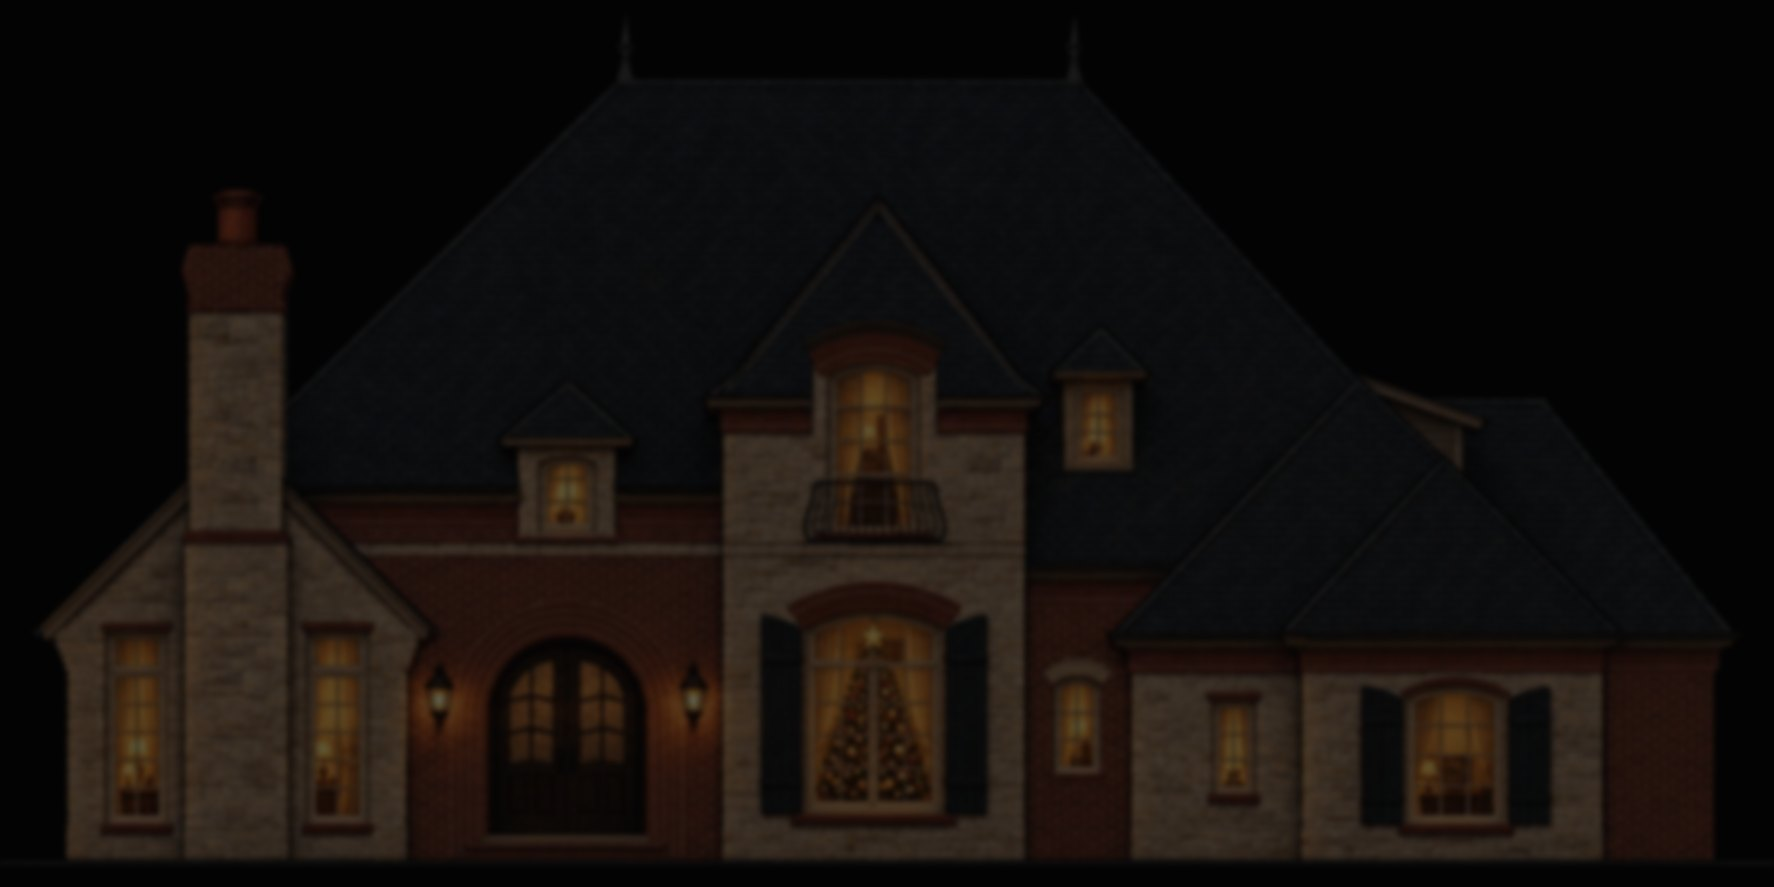
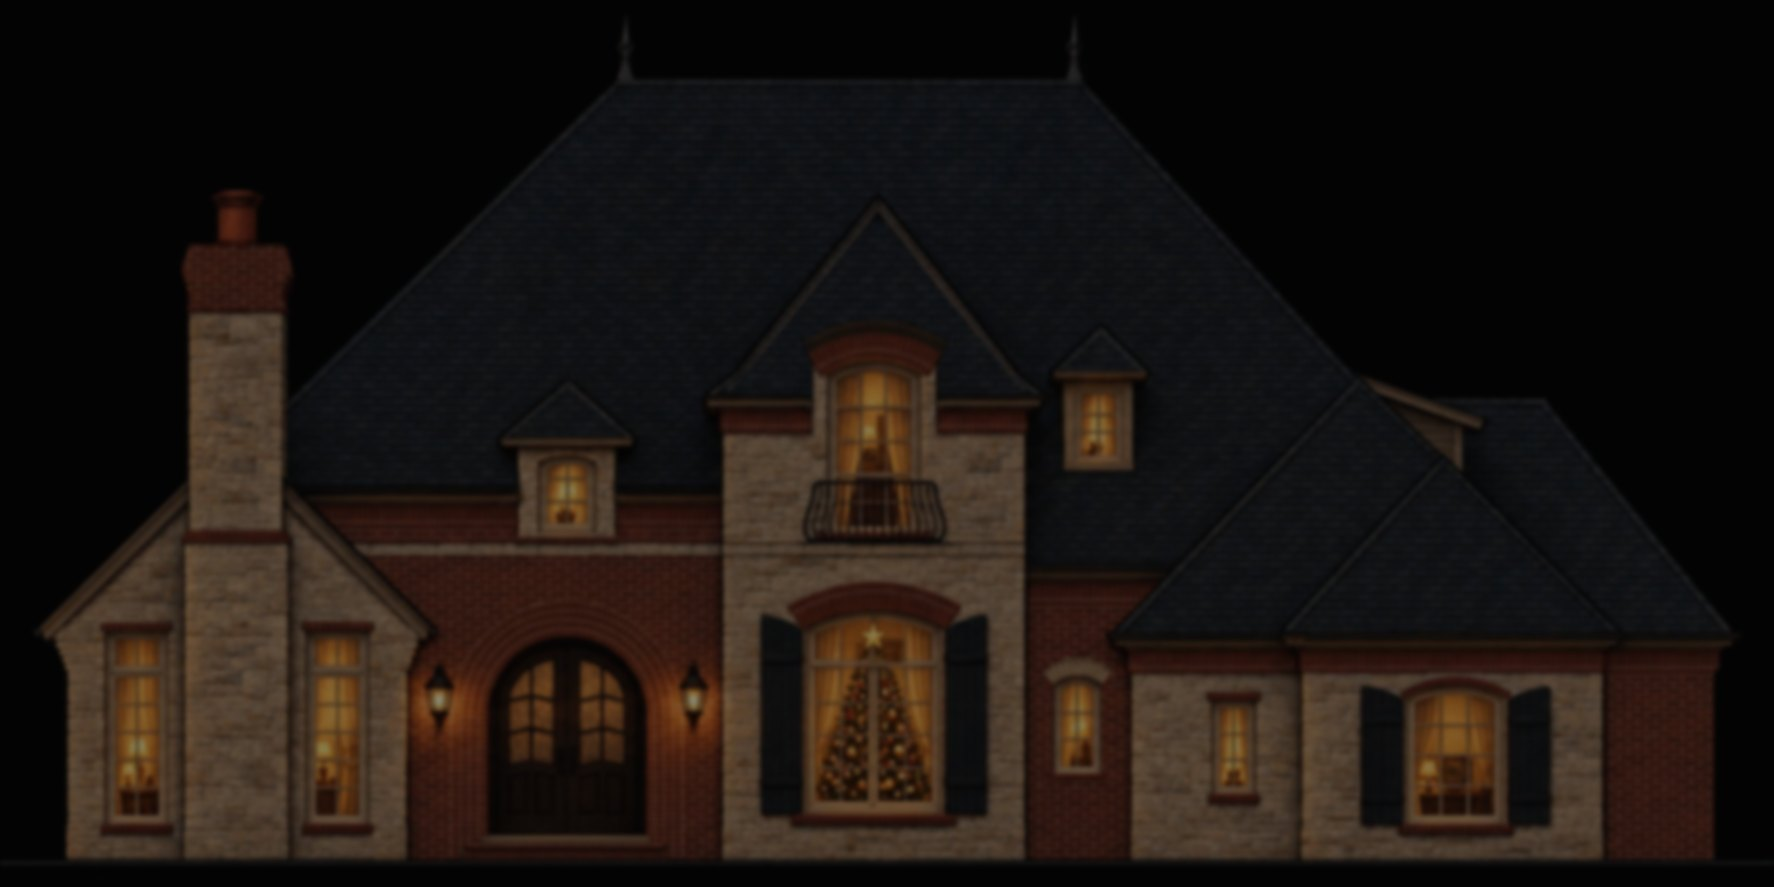
Brighter house, matching corner radius, line breaks in the footer text

diff --git a/index.html b/index.html
@@ -11,22 +11,22 @@
 <meta property="og:image" content="https://finetunedlights.com/display-photo.jpg">
 <link rel="preconnect" href="https://fonts.googleapis.com">
 <link rel="stylesheet" href="https://fonts.googleapis.com/css2?family=Playfair+Display:wght@600;700;900&family=Roboto:wght@400;500;700&display=swap">
-<link rel="stylesheet" href="style.css?v=39">
+<link rel="stylesheet" href="style.css?v=40">
 <link rel="icon" href="favicon.svg" type="image/svg+xml">
-<script src="show.js?v=39" defer></script>
-<script src="holiday.js?v=39" defer></script>
-<script src="roof-player.js?v=39" defer></script>
+<script src="show.js?v=40" defer></script>
+<script src="holiday.js?v=40" defer></script>
+<script src="roof-player.js?v=40" defer></script>
 </head>
 <body class="app dock">
 <main class="home">
-  <div class="masthead"><img id="banner" src="banner.webp?v=39" alt="Fine Tuned Lights"></div>
+  <div class="masthead"><img id="banner" src="banner.webp?v=40" alt="Fine Tuned Lights"></div>
 <script>
   // Halloween header Oct 1 - Nov 1 (show's time zone); Christmas header the rest of the year.
   (function () {
     var f = new Intl.DateTimeFormat('en-US', { timeZone: 'America/Chicago', month: 'numeric', day: 'numeric' });
     var o = {}; f.formatToParts(new Date()).forEach(function (p) { o[p.type] = p.value; });
     var m = +o.month, d = +o.day;
-    if (m === 10 || (m === 11 && d === 1)) document.getElementById('banner').src = 'banner-halloween.webp?v=39';
+    if (m === 10 || (m === 11 && d === 1)) document.getElementById('banner').src = 'banner-halloween.webp?v=40';
   })();
 </script>
   <div class="statusbar" id="status">Sunset to 10 pm, midnight on weekends</div>
@@ -35,8 +35,8 @@
     <a class="btn big alt" href="about.html">About the show</a>
   </div>
   <div class="roofwrap"><canvas id="roof"></canvas></div>
-  <p class="line"><b id="season">Nov 27 to Jan 1</b> · sunset to 10 pm, midnight on weekends and holidays · <a href="https://maps.apple.com/?q=8209+NW+125th+St,+Oklahoma+City,+OK+73142">8209 NW 125th St</a></p>
-  <p class="rules">Thanks for visiting our holiday light show! Please enjoy! Kindly turn on parking lights, turn off headlights, and avoid blocking traffic or driveways.</p>
+  <p class="line"><b id="season">Nov 27 to Jan 1</b><br>Sunset to 10 pm, midnight on weekends and holidays<br><a href="https://maps.apple.com/?q=8209+NW+125th+St,+Oklahoma+City,+OK+73142">8209 NW 125th St</a></p>
+  <p class="rules">Thanks for visiting our holiday light show! Please enjoy!<br>Kindly turn on parking lights, turn off headlights,<br>and avoid blocking traffic or driveways.</p>
 </main>
 
 <section class="player-dock" id="dock">
@@ -64,7 +64,7 @@
   window.addEventListener('DOMContentLoaded', async function () {
     try {
       var show = await Roofline.loadShow('like-its-christmas');
-      var r = Roofline.makeRenderer(document.getElementById('roof'), show, { background: 'house-night.jpg?v=39' });
+      var r = Roofline.makeRenderer(document.getElementById('roof'), show, { background: 'house-night.jpg?v=40' });
       var t0 = performance.now();
       r.start(function () {
         return window.__pmPositionMs ? window.__pmPositionMs() : (performance.now() - t0) % r.durationMs;

diff --git a/style.css b/style.css
@@ -23,7 +23,7 @@ main.player iframe{width:100%;height:100%;border:0;display:block}
 .fallback{position:absolute;inset:0;display:flex;flex-direction:column;align-items:center;justify-content:center;
   gap:14px;padding:24px;text-align:center;background:var(--bg)}
 .fallback.hidden{display:none}
-.btn{display:inline-block;padding:14px 22px;border-radius:10px;color:#2a1c05;
+.btn{display:inline-block;padding:14px 22px;border-radius:12px;color:#2a1c05;
   font-weight:700;text-decoration:none;font-size:17px;
   background:linear-gradient(180deg,#c69d46 0%,#a67f30 42%,#8f6d28 58%,#b58f3c 100%);
   border:4px solid #8a6a26;
@@ -58,7 +58,7 @@ ul{padding-left:20px}
 .about .addr{color:var(--muted);margin:0 0 26px}
 .about .addr a{color:var(--muted)}
 .btns{display:flex;flex-direction:column;gap:9px;margin:0 0 10px;max-width:none}
-.btn.big{display:block;padding:12px 18px;font-size:19px;font-weight:900;border-radius:10px;text-transform:uppercase}
+.btn.big{display:block;padding:12px 18px;font-size:19px;font-weight:900;border-radius:12px;text-transform:uppercase}
 
 .about .rules{color:var(--muted);font-size:15px;margin:0 0 30px}
 .about .tiny{color:#6f6c63;font-size:12px}
@@ -90,11 +90,11 @@ body.dock{padding-bottom:104px}
 main.home{padding:0 12px 14px;text-align:center;max-width:560px;width:100%;margin:0 auto}
 main.home .house{display:block;width:100%;border-radius:14px;margin:6px 0 14px}
 main.home h1{font-size:22px;line-height:1.14;margin:4px 0 6px}
-main.home .line{color:var(--muted);font-size:14px;letter-spacing:.03em;margin:10px 0 2px}
+main.home .line{color:var(--muted);font-size:14px;letter-spacing:.03em;line-height:1.6;margin:12px 0 8px}
 main.home .line b{color:var(--gold)}
 main.home .line a{color:var(--muted)}
 main.home .btns{margin-bottom:8px}
-main.home .rules{font-family:'Playfair Display', Georgia, serif;color:#8f8a7c;font-size:13px;line-height:1.4;margin:0 auto;max-width:420px}
+main.home .rules{font-family:'Playfair Display', Georgia, serif;color:#8f8a7c;font-size:13px;line-height:1.6;margin:0 auto 10px;max-width:420px}
 .player-dock{position:fixed;left:0;right:0;bottom:0;z-index:5;height:96px;overflow:hidden;border-top:1px solid var(--line);background:#121216;transition:height .25s ease}
 .player-dock iframe{position:absolute;left:0;right:0;bottom:0;width:100%;height:100vh;height:100dvh;border:0}
 .player-dock .grab{position:absolute;top:0;left:0;right:0;height:14px;border:0;background:transparent;z-index:2;display:none;cursor:pointer}
@@ -109,7 +109,7 @@ body.expanded main.home{display:none}
 
 /* banner masthead */
 .masthead{margin:0}
-.masthead img{display:block;width:100%;height:auto;max-height:26vh;object-fit:contain;border-radius:10px}
+.masthead img{display:block;width:100%;height:auto;max-height:26vh;object-fit:contain;border-radius:12px}
 .statusbar{text-align:center;font-size:14px;color:var(--gold-2);padding:4px 12px 6px}
 .statusbar b{color:var(--gold);font-weight:700}
 .statusbar.on b{color:#6ec07f}

diff --git a/roof-player.js b/roof-player.js
@@ -86,7 +86,7 @@
       ctx.setTransform(1, 0, 0, 1, 0, 0);
       ctx.fillStyle = '#0b0d14';
       ctx.fillRect(0, 0, canvas.width, canvas.height);
-      if (bg && bg.complete && bg.naturalWidth) { ctx.globalAlpha = 0.86; ctx.drawImage(bg, ox, oy, w * scale, h * scale); ctx.globalAlpha = 1; }
+      if (bg && bg.complete && bg.naturalWidth) { ctx.globalAlpha = 0.9; ctx.drawImage(bg, ox, oy, w * scale, h * scale); ctx.globalAlpha = 1; }
       if (!bg && sil.width) { ctx.globalAlpha = 0.3; ctx.drawImage(sil, 0, 0); ctx.globalAlpha = 1; }
       // draw the lights onto an offscreen layer, then composite with a soft blur
       lc.setTransform(1, 0, 0, 1, 0, 0);
